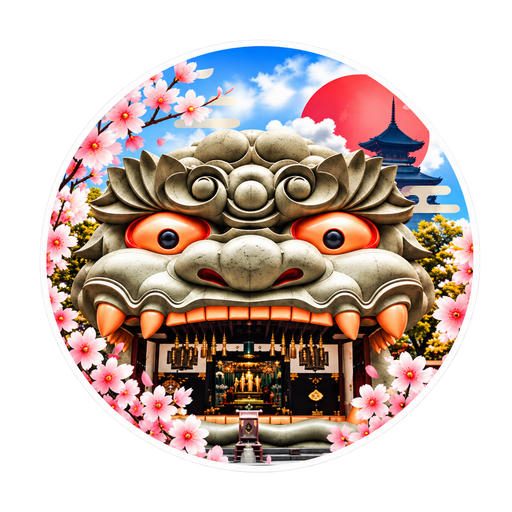
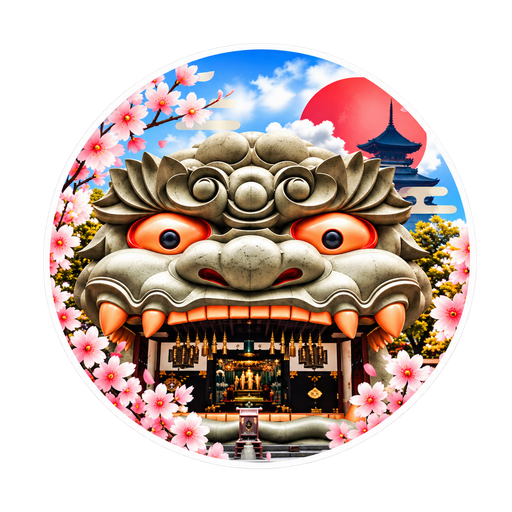
Add files via upload

Changed region(s): [[0.0625, 0.0625, 0.9375, 0.9375]]

diff --git a/service-worker.js b/service-worker.js
@@ -1,7 +1,7 @@
-const CACHE_NAME='viaje-japon-final-test-14';
-const RUNTIME_CACHE='viaje-japon-runtime-final-test-14';
+const CACHE_NAME='viaje-japon-icon-maskable-19';
+const RUNTIME_CACHE='viaje-japon-runtime-icon-maskable-19';
 const APP_SHELL=[
- './','./index.html','./manifest.json','./icon-192.png','./icon-512.png','./splash-viaje-japon.png',
+ './','./index.html','./manifest.json','./icon-192.png','./icon-512.png','./icon-maskable-192.png','./icon-maskable-512.png','./splash-viaje-japon.png',
  'https://unpkg.com/leaflet@1.9.4/dist/leaflet.css',
  'https://unpkg.com/leaflet@1.9.4/dist/leaflet.js',
  'https://cdn.jsdelivr.net/npm/@supabase/supabase-js@2'
